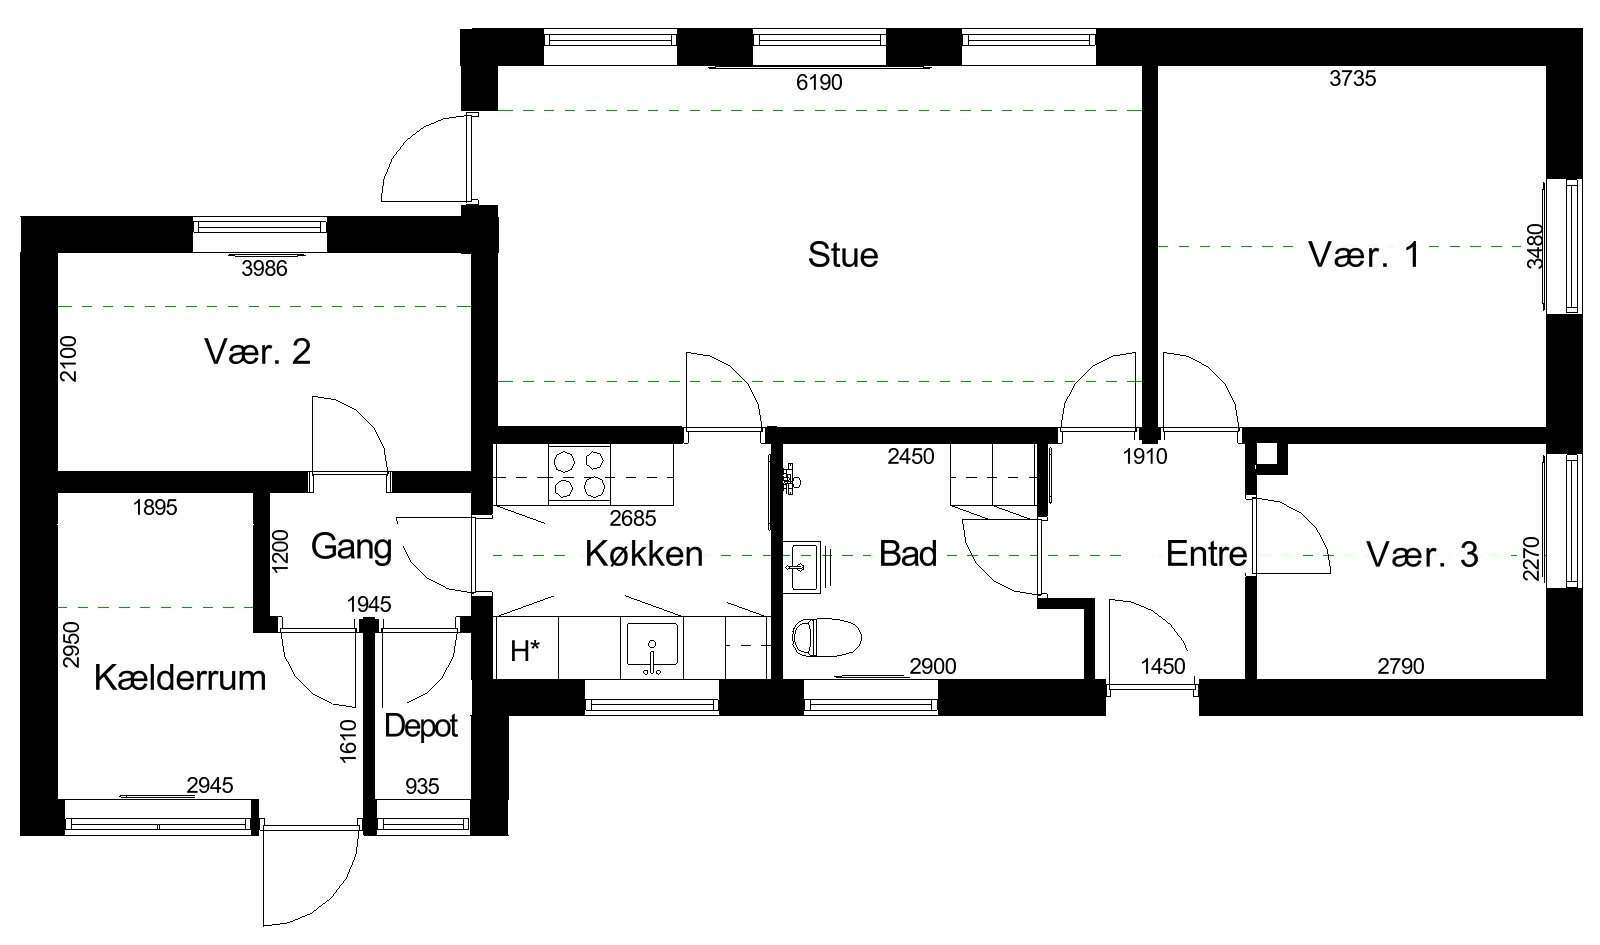
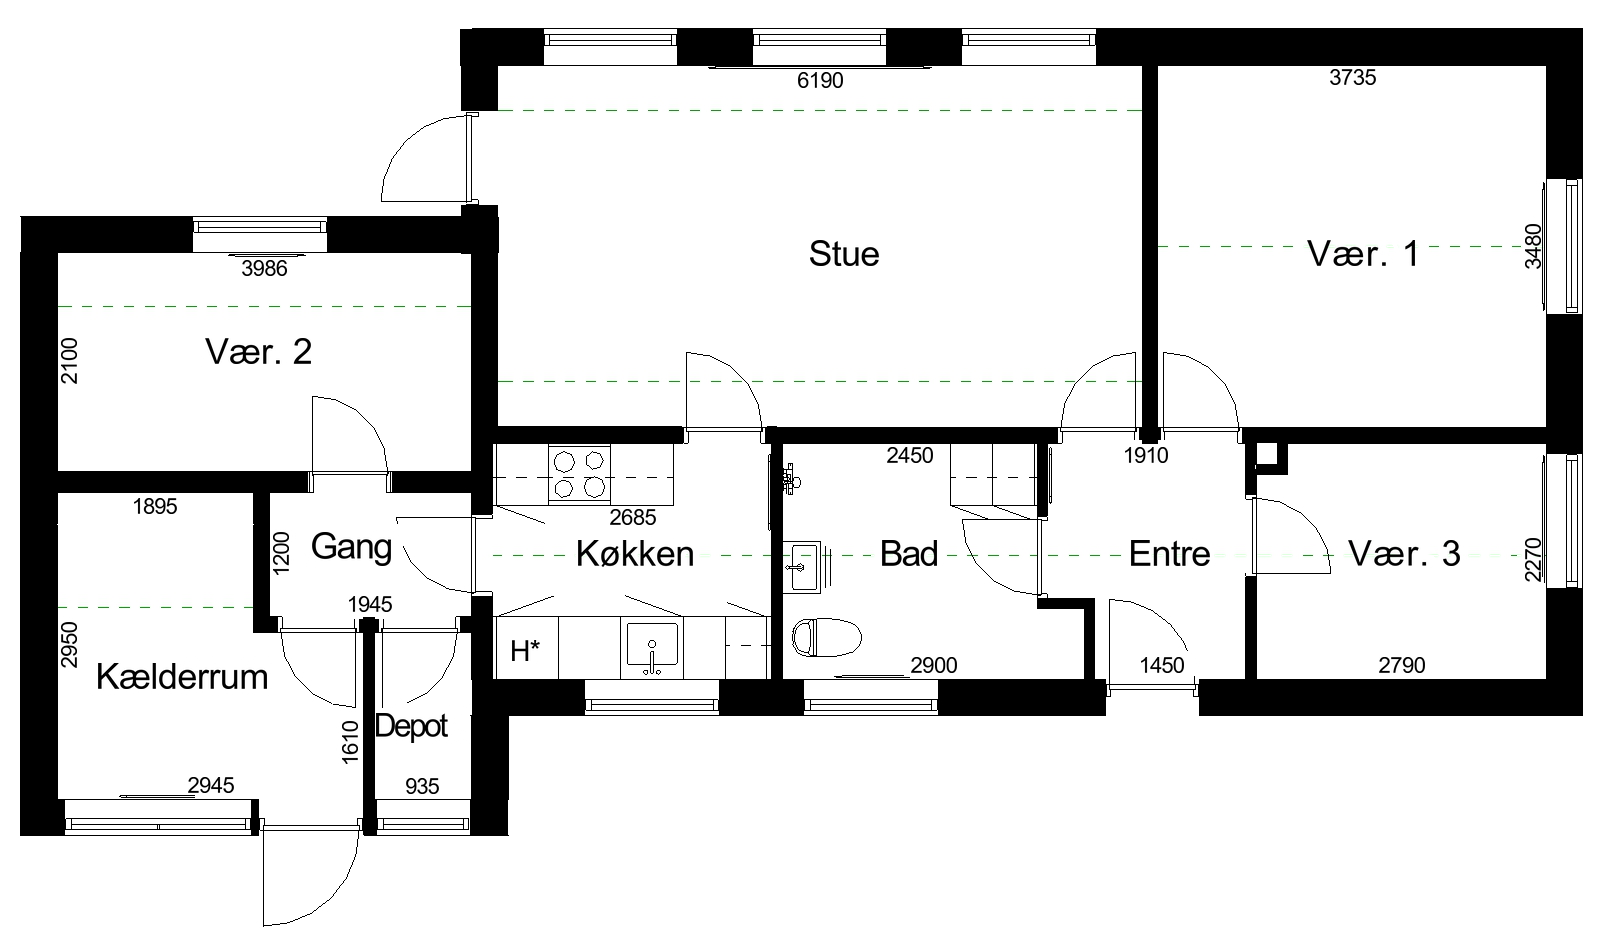
Fix room labels rendering off-centre in their room after mirroring
Found by the user comparing a source/mirrored pair: 'Entre' sat visibly
closer to one wall of its own room in the mirrored output than in the
source, and asked why some room labels mirror in place while others
don't. Re-diagnosed against the real file (722-0553-0006-1001-T21).

Root cause is the same pattern behind every fix this session, just
hitting POSITION instead of SIZE: the render's anchor point was always
the raw OCR detection box's own geometric centre
(M.bbox_center(det.bbox)), and that box is not evenly padded on every
side. '---Entre's dash-noise prefix (a crossing reference line, the
same contamination already excluded from SIZE fitting) pads the box's
LEFT edge much further out than its right, so the box's own centre
sits measurably left of where the word 'Entre' actually visually
centres — confirmed: 36.5px left, on this exact file. Anchoring the
re-render on that off-centre point and then mirroring it doesn't
cancel the bias, it REFLECTS it: a small leftward offset in the source
becomes a rightward one in the output, visibly crowding the label
against the wrong wall of its own room relative to where the word sat
on the original drawing.

fit_style already solves the equivalent problem for SIZE
(measure_ink_extent measures the actual ink cluster rather than
trusting the padded box) — this extends the same fix to POSITION:

- spejl/style/metrics.py: extracted the connected-component analysis
  and its three contamination filters (foreign strokes, sparse
[…]

diff --git a/spejl/style/metrics.py b/spejl/style/metrics.py
@@ -144,24 +144,91 @@ def measure_ink_extent(
     line the check above already catches, but just as much not a glyph.
     """
     raw_x0, raw_y0, raw_x1, raw_y1 = (int(round(v)) for v in bbox)
+    vertical = abs(angle_deg) > 45
+
+    def _fallback() -> tuple[float, float]:
+        # Use the ORIGINAL (unclamped) box, not the clamped one — a box
+        # that lies partly or wholly outside the image would otherwise
+        # collapse toward zero regardless of the box's real size, which
+        # used to hand fit_font_size a bogus ~1px target and produce an
+        # unreadably tiny font with no error raised.
+        bw = max(1.0, float(raw_x1 - raw_x0))
+        bh = max(1.0, float(raw_y1 - raw_y0))
+        return (bh, bw) if vertical else (bw, bh)
+
+    cluster = _measure_ink_cluster_bbox(image, bbox, angle_deg, other_boxes, expected_glyphs)
+    if cluster is None:
+        return _fallback()
+    gx0, gy0, gx1, gy1 = cluster
+    ink_w = max(1.0, gx1 - gx0)
+    ink_h = max(1.0, gy1 - gy0)
+    return (ink_h, ink_w) if vertical else (ink_w, ink_h)
+
+
+def measure_ink_center(
+    image: np.ndarray,
+    bbox: tuple[float, float, float, float],
+    angle_deg: float,
+    other_boxes: list[tuple[float, float, float, float]] | None = None,
+    expected_glyphs: int = 0,
+) -> tuple[float, float]:
+    """The actual glyph ink's centre point, in absolute image
+    coordinates — not the raw detection box's own centre.
+
+    A detector's box is padded, and that padding is not always even on
+    every side: dash-noise from a crossing reference line prepended to
+    a room label's raw OCR read ('---Entre') pads the box's LEFT edge
+    much further out than its right, so the box's own geometric centre
+    sits measurably left of where the word 'Entre' actually visually
+    centres. Confirmed on a real plan: anchoring the re-render on that
+    raw centre reproduces the same lopsided offset — MIRRORED, which
+    turns a small leftward bias in the source into a rightward one in
+    the output, visibly off-centre in its own room relative to where
+    the word sat on the original drawing. Anchoring on the actual ink
+    cluster's own centre instead means the re-rendered word sits
+    exactly where the word itself was, regardless of what else the
+    detection box happened to pad around it.
+
+    Shares :func:`_measure_ink_cluster_bbox` with :func:`measure_ink_extent`
+    — same filtered, clustered ink extent, just reported as a centre
+    point instead of a size — and falls back to the raw box's own
+    centre under the same condition that function falls back to the raw
+    box's own size (no usable ink found).
+    """
+    cluster = _measure_ink_cluster_bbox(image, bbox, angle_deg, other_boxes, expected_glyphs)
+    if cluster is None:
+        x0, y0, x1, y1 = bbox
+        return ((x0 + x1) / 2.0, (y0 + y1) / 2.0)
+    gx0, gy0, gx1, gy1 = cluster
+    return ((gx0 + gx1) / 2.0, (gy0 + gy1) / 2.0)
+
+
+def _measure_ink_cluster_bbox(
+    image: np.ndarray,
+    bbox: tuple[float, float, float, float],
+    angle_deg: float,
+    other_boxes: list[tuple[float, float, float, float]] | None,
+    expected_glyphs: int,
+) -> tuple[float, float, float, float] | None:
+    """The actual glyph ink's bounding box inside ``bbox``, in ABSOLUTE
+    image coordinates — or None when no usable ink was found (empty or
+    entirely out-of-bounds crop), leaving the caller to fall back to
+    the raw detection box.
+
+    Shared by :func:`measure_ink_extent` and :func:`measure_ink_center`:
+    both need the identical filtered, clustered ink extent — one
+    reports its size, the other its centre — so the connected-component
+    analysis and its three contamination filters live here once rather
+    than as two copies to keep in sync.
+    """
+    raw_x0, raw_y0, raw_x1, raw_y1 = (int(round(v)) for v in bbox)
     h, w = image.shape[:2]
     x0, y0 = max(0, raw_x0), max(0, raw_y0)
     x1, y1 = min(w, raw_x1), min(h, raw_y1)
     vertical = abs(angle_deg) > 45
 
-    def _fallback() -> tuple[float, float]:
-        # Use the ORIGINAL (unclamped) box, not x0..y1 — those are already
-        # clamped to the image, and for a box that lies partly or wholly
-        # outside it, the clamped deltas collapse toward zero regardless
-        # of the box's real size, which used to hand fit_font_size a
-        # bogus ~1px target and produce an unreadably tiny font with no
-        # error raised.
-        bw = max(1.0, float(raw_x1 - raw_x0))
-        bh = max(1.0, float(raw_y1 - raw_y0))
-        return (bh, bw) if vertical else (bw, bh)
-
     if x1 <= x0 or y1 <= y0:
-        return _fallback()
+        return None
 
     crop = image[y0:y1, x0:x1]
     gray = cv2.cvtColor(crop, cv2.COLOR_BGR2GRAY) if crop.ndim == 3 else crop
@@ -170,7 +237,7 @@ def measure_ink_extent(
     if other_boxes:
         _mask_out_other_boxes(ink, x0, y0, other_boxes)
     if not ink.any():
-        return _fallback()
+        return None
 
     ch, cw = ink.shape
     count, _labels, stats, _cent = cv2.connectedComponentsWithStats(ink, connectivity=8)
@@ -186,7 +253,7 @@ def measure_ink_extent(
         boxes.append((cx, cy, cx + cwid, cy + chgt, int(area)))
 
     if not boxes:
-        return _fallback()
+        return None
 
     # Only safe when at least as many components survived as the string
     # has characters — i.e. nothing suggests a real glyph is already
@@ -202,7 +269,7 @@ def measure_ink_extent(
         boxes = _drop_sparse_linework(boxes)
         boxes = _drop_edge_touching_intrusions(boxes, ch, cw, vertical)
         if not boxes:
-            return _fallback()
+            return None
 
     boxes = _main_glyph_cluster(boxes, ch, cw, vertical)
 
@@ -210,9 +277,7 @@ def measure_ink_extent(
     gy0 = min(b[1] for b in boxes)
     gx1 = max(b[2] for b in boxes)
     gy1 = max(b[3] for b in boxes)
-    ink_w = max(1.0, float(gx1 - gx0))
-    ink_h = max(1.0, float(gy1 - gy0))
-    return (ink_h, ink_w) if vertical else (ink_w, ink_h)
+    return (float(x0 + gx0), float(y0 + gy0), float(x0 + gx1), float(y0 + gy1))
 
 
 def _mask_out_other_boxes(

diff --git a/tests/test_style_metrics.py b/tests/test_style_metrics.py
@@ -8,7 +8,7 @@ import cv2
 import numpy as np
 import pytest
 
-from spejl.style.metrics import fit_font_size, measure_ink_extent, resolve_font
+from spejl.style.metrics import fit_font_size, measure_ink_center, measure_ink_extent, resolve_font
 
 
 @pytest.fixture(scope="module")
@@ -193,3 +193,41 @@ def test_a_wall_touching_the_crops_edge_is_dropped_even_when_neither_other_filte
 
     assert unguarded[1] == pytest.approx(40.0)  # wall sets across to the full crop height
     assert guarded[1] == pytest.approx(24.0, abs=2.0)  # letters' own true height, wall excluded
+
+
+def test_measure_ink_center_ignores_asymmetric_contamination():
+    """Regression: a real plan's '---Entre' detection box was padded
+    much further on its LEFT edge than its right (dash-noise from a
+    crossing reference line, the same contamination
+    _drop_sparse_linework's door-jamb case is), so the RAW box's own
+    geometric centre sat measurably left of where the word 'Entre'
+    itself actually centres. The pipeline used to anchor the re-render
+    on that raw centre — mirroring turned a small leftward bias in the
+    source into a visible RIGHTWARD one in the output, crowding the
+    label against the wrong wall of its own room.
+
+    measure_ink_center must report the ACTUAL glyph cluster's centre,
+    not the padded box's — matching measure_ink_extent's own long-
+    standing reasoning for why it measures ink instead of trusting the
+    box for size, applied here to position instead.
+    """
+    image = np.full((40, 80, 3), 255, np.uint8)
+    cv2.rectangle(image, (5, 0), (20, 38), (0, 0, 0), 1)      # sparse jamb, LEFT side only
+    cv2.rectangle(image, (35, 10), (48, 30), (0, 0, 0), -1)   # real letter 1
+    cv2.rectangle(image, (52, 10), (65, 30), (0, 0, 0), -1)   # real letter 2
+
+    bbox = (0.0, 0.0, 80.0, 40.0)
+    raw_center_x = 40.0  # the box's own midpoint, pulled left by the jamb padding
+    true_center = measure_ink_center(image, bbox, angle_deg=0.0, expected_glyphs=2)
+
+    # The real letters span x=35..65 (centre 50.0) -- the corrected
+    # centre must land there, not at the raw box's midpoint.
+    assert true_center[0] > raw_center_x
+    assert true_center[0] == pytest.approx(50.0, abs=3.0)
+
+
+def test_measure_ink_center_falls_back_to_the_raw_box_when_no_ink_is_found():
+    image = np.full((20, 20, 3), 255, np.uint8)  # blank -- no ink anywhere
+    bbox = (0.0, 0.0, 20.0, 20.0)
+    center = measure_ink_center(image, bbox, angle_deg=0.0)
+    assert center == pytest.approx((10.0, 10.0))

diff --git a/spejl/raster/pipeline.py b/spejl/raster/pipeline.py
@@ -27,6 +27,7 @@ from spejl.style.metrics import (
     TextStyle,
     fit_style,
     font_measure_width,
+    measure_ink_center,
     solve_horizontal_scale,
     solve_tracking,
 )
@@ -179,7 +180,20 @@ def mirror_raster(
 
         other_boxes = [d.bbox for d in detections if d is not det]
         style = fit_style(image, result.text, det.bbox, det.angle_deg, other_boxes=other_boxes)
-        out_bbox = M.mirror_bbox(det.bbox, w, h, axis)
+        # The raw detection box's own centre is not necessarily where the
+        # WORD itself centres — dash-noise from a crossing reference line
+        # (or any other one-sided contamination measure_ink_extent already
+        # excludes when fitting size) pads one edge of the box further
+        # than the other, and mirroring that off-centre raw box turns a
+        # small bias in the source into a visible one in the output.
+        # measure_ink_center reuses the same filtered ink-cluster analysis
+        # fit_style just used for sizing, so the anchor reflects the same
+        # ink the render is actually fitted to.
+        center_src = measure_ink_center(
+            image, det.bbox, det.angle_deg, other_boxes=other_boxes,
+            expected_glyphs=len(result.text),
+        )
+        center_out = M.mirror_point(center_src[0], center_src[1], w, h, axis)
         runs.append(
             MirroredRun(
                 text=result.text,
@@ -188,8 +202,8 @@ def mirror_raster(
                 conf=det.conf,
                 angle_src=det.angle_deg,
                 angle_out=M.mirror_angle(det.angle_deg, axis),
-                center_src=M.bbox_center(det.bbox),
-                center_out=M.bbox_center(out_bbox),
+                center_src=center_src,
+                center_out=center_out,
                 bbox_src=det.bbox,
                 style=style,
                 flags=run_flags,
